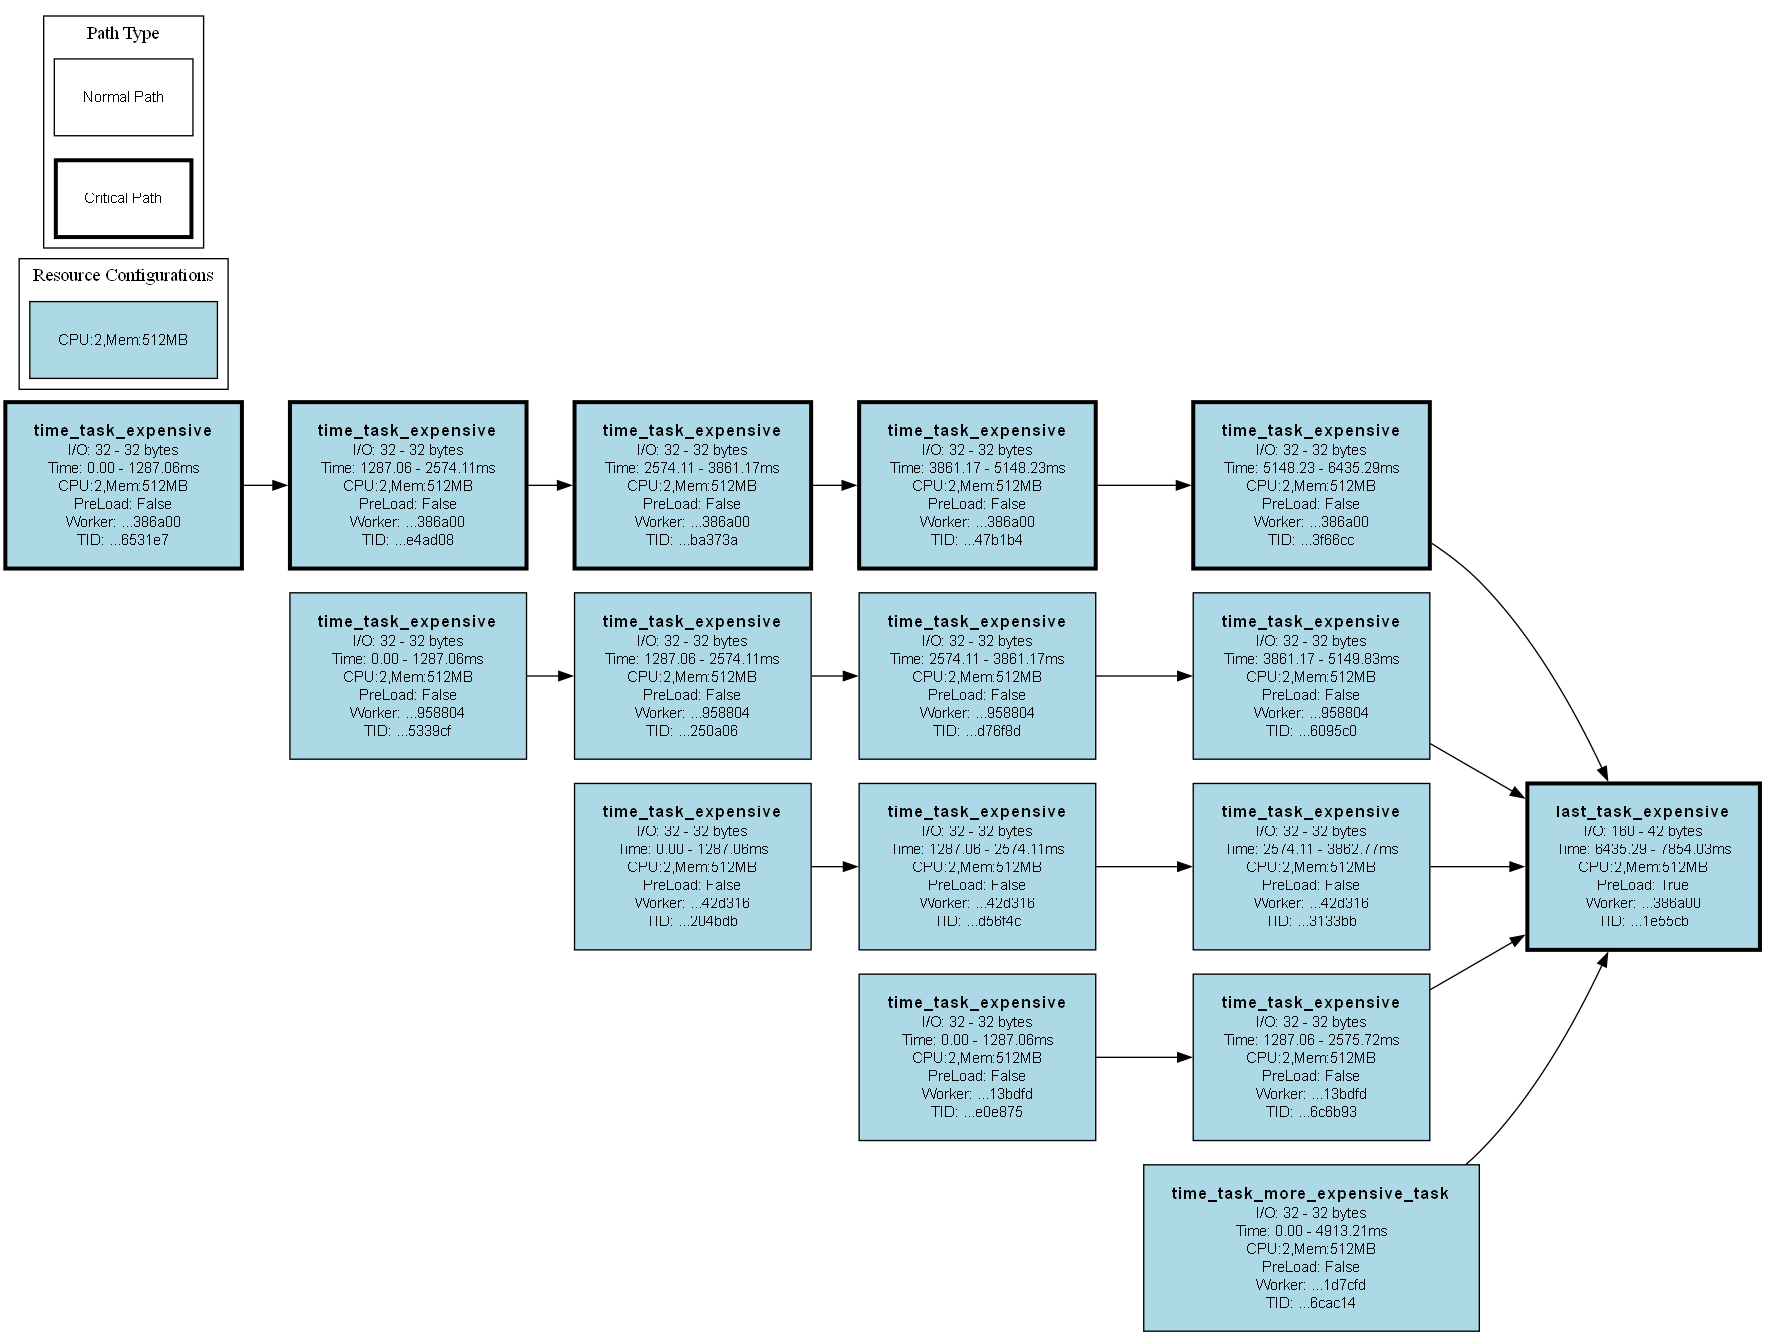
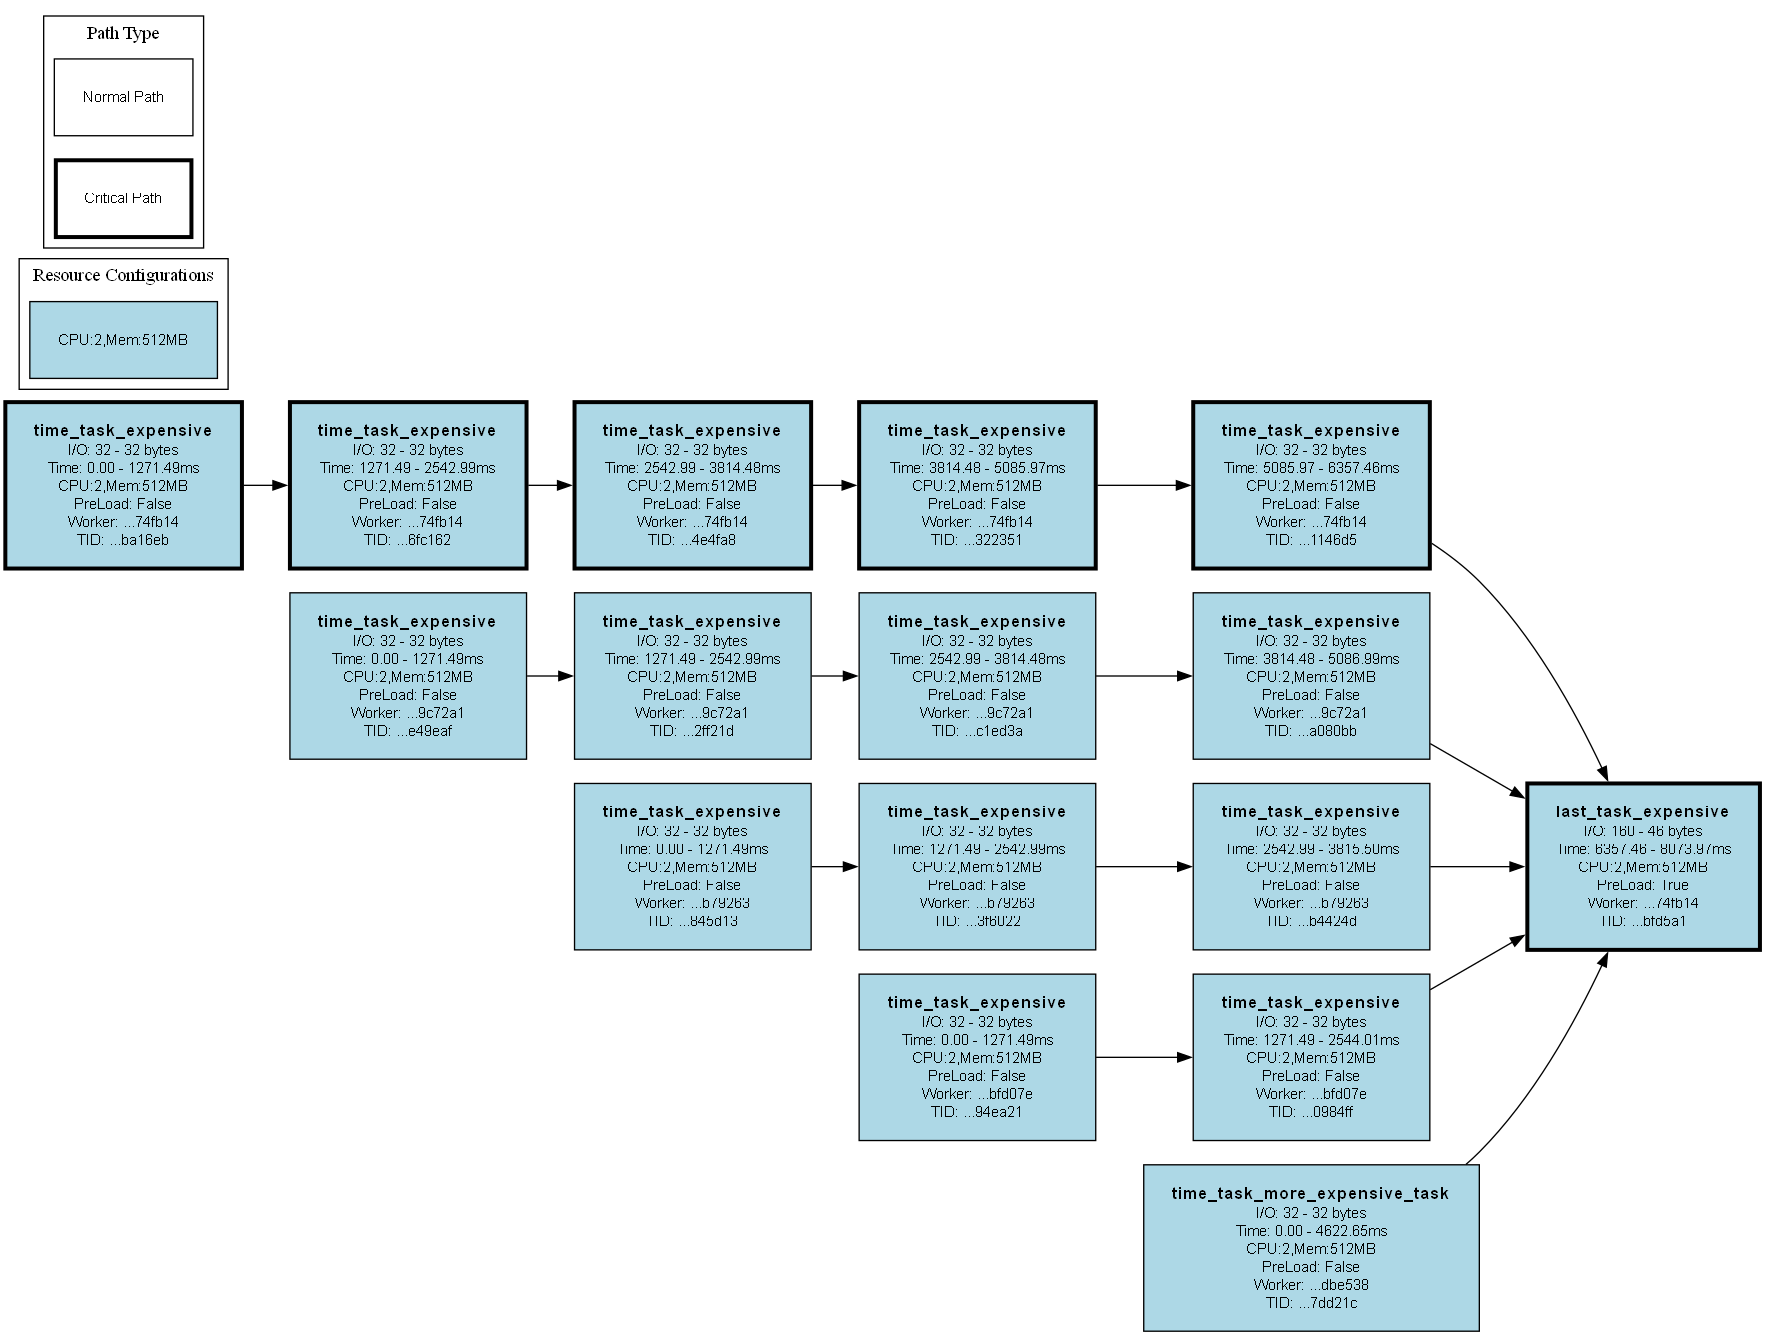
using total download time instead of task-path download time

diff --git a/_metadata_analysis/workflow_dashboard.py b/_metadata_analysis/workflow_dashboard.py
@@ -412,7 +412,7 @@ def main():
                 
                 if instance.plan and instance.plan.nodes_info:
                     # Calculate total metrics for non-makespan related stats
-                    predicted_download = sum(info.download_time / 1000 for info in instance.plan.nodes_info.values())  # in seconds
+                    predicted_download = sum(info.total_download_time / 1000 for info in instance.plan.nodes_info.values())  # in seconds
                     predicted_execution = sum(info.exec_time / 1000 for info in instance.plan.nodes_info.values())  # in seconds
                     predicted_upload = sum(info.upload_time / 1000 for info in instance.plan.nodes_info.values())  # in seconds
                     predicted_output_size = sum(info.output_size for info in instance.plan.nodes_info.values())  # in bytes
@@ -637,7 +637,7 @@ def main():
             # Get predicted metrics if available
             predicted_download = predicted_execution = predicted_upload = predicted_makespan = 0
             if instance.plan and instance.plan.nodes_info:
-                predicted_download = sum(info.download_time / 1000 for info in instance.plan.nodes_info.values())  # in seconds
+                predicted_download = sum(info.total_download_time / 1000 for info in instance.plan.nodes_info.values())  # in seconds
                 print("predicted_download", predicted_download)
                 predicted_execution = sum(info.exec_time / 1000 for info in instance.plan.nodes_info.values())  # in seconds
                 predicted_upload = sum(info.upload_time / 1000 for info in instance.plan.nodes_info.values())  # in seconds

diff --git a/TODO.md b/TODO.md
@@ -13,12 +13,23 @@
         standard deviation (between real and predicted)
     - [??] Show the impact of PRE-LOAD vs no PRE-LOAD
     [TODO]
+        - refactor/rethink:
+            - metrics gathering
+            - plan output data
+            - predictions
         - [BUG] On the raw table, predicted download time is always 0
+            - Check if adding total_download_time makes it work
         - Add to the table: predicted Input vs real output + predicted Output vs real output
         - [BUG] `metadata_analysis` dashboard. Is the shown "Observed" value well calculated, under "Planned vs Observed Metrics"?
         - [BUG?] Predicted `download_time` is 0 bc of preload but sometimes REAL is not. For those workflow instances, the REAL critical path must have been different, right?
 
 - On PlanOutput, also store the `SLA` the user specified
+
+- Is this correct:
+    - download_time (REAL, PLAN OUTPUT, PREDICTED)
+    - upload_time (REAL, PLAN OUTPUT, PREDICTED)
+    - execution_time (REAL, PLAN OUTPUT, PREDICTED)
+
 - Add “downstream invocation times” to the prediction logic?
     Use the `metadata_analysis` dashboard to see if invocation time is relevant
 - Add cold-start/warm-start to the predictions
